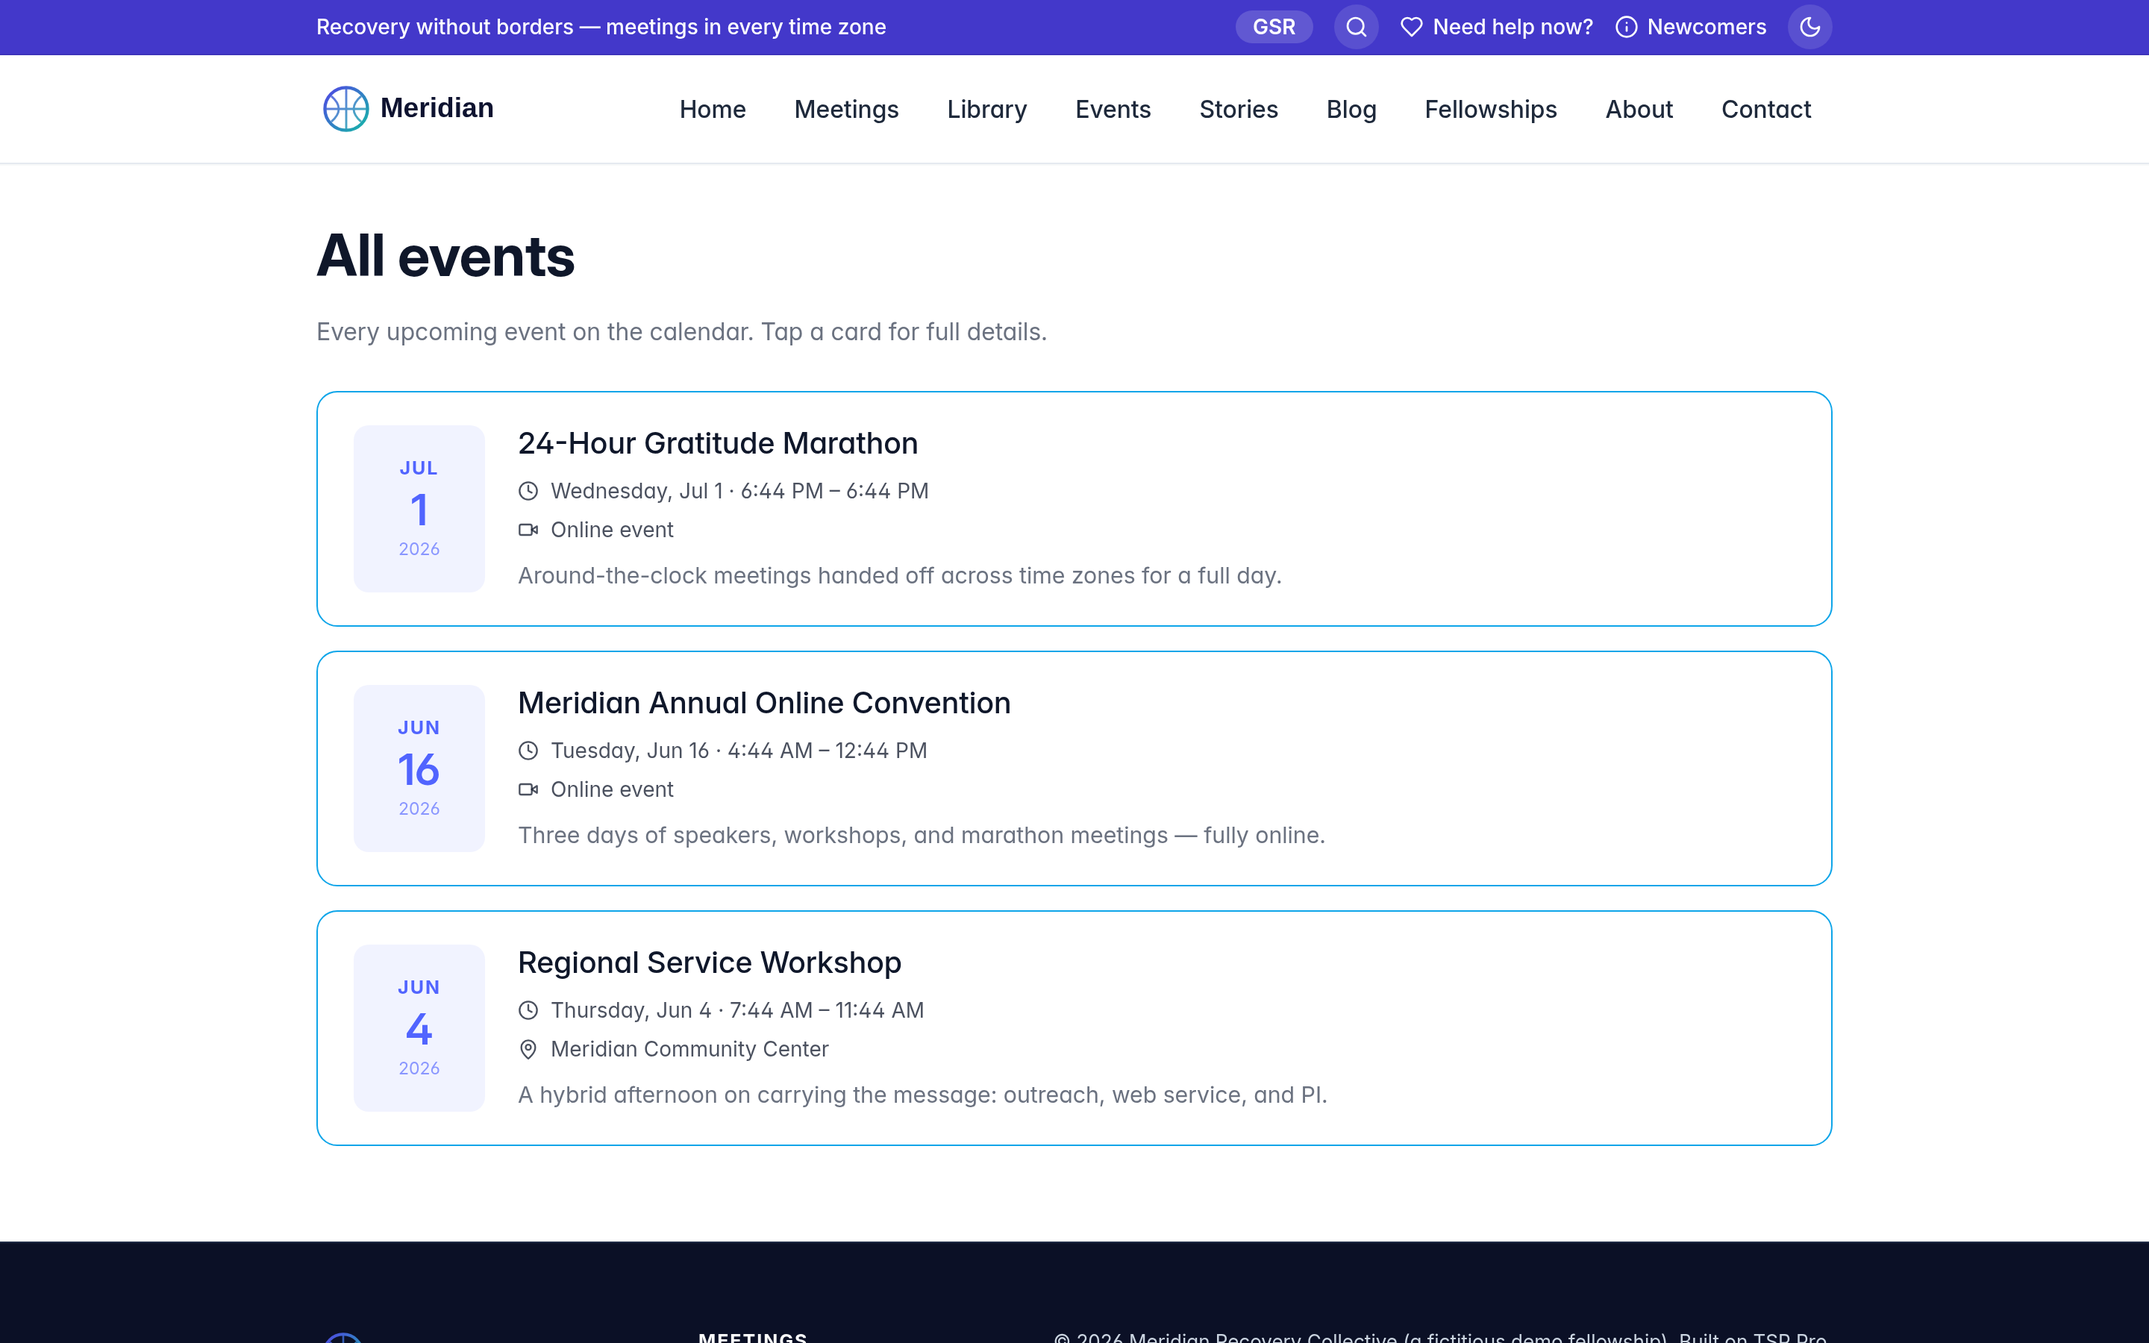
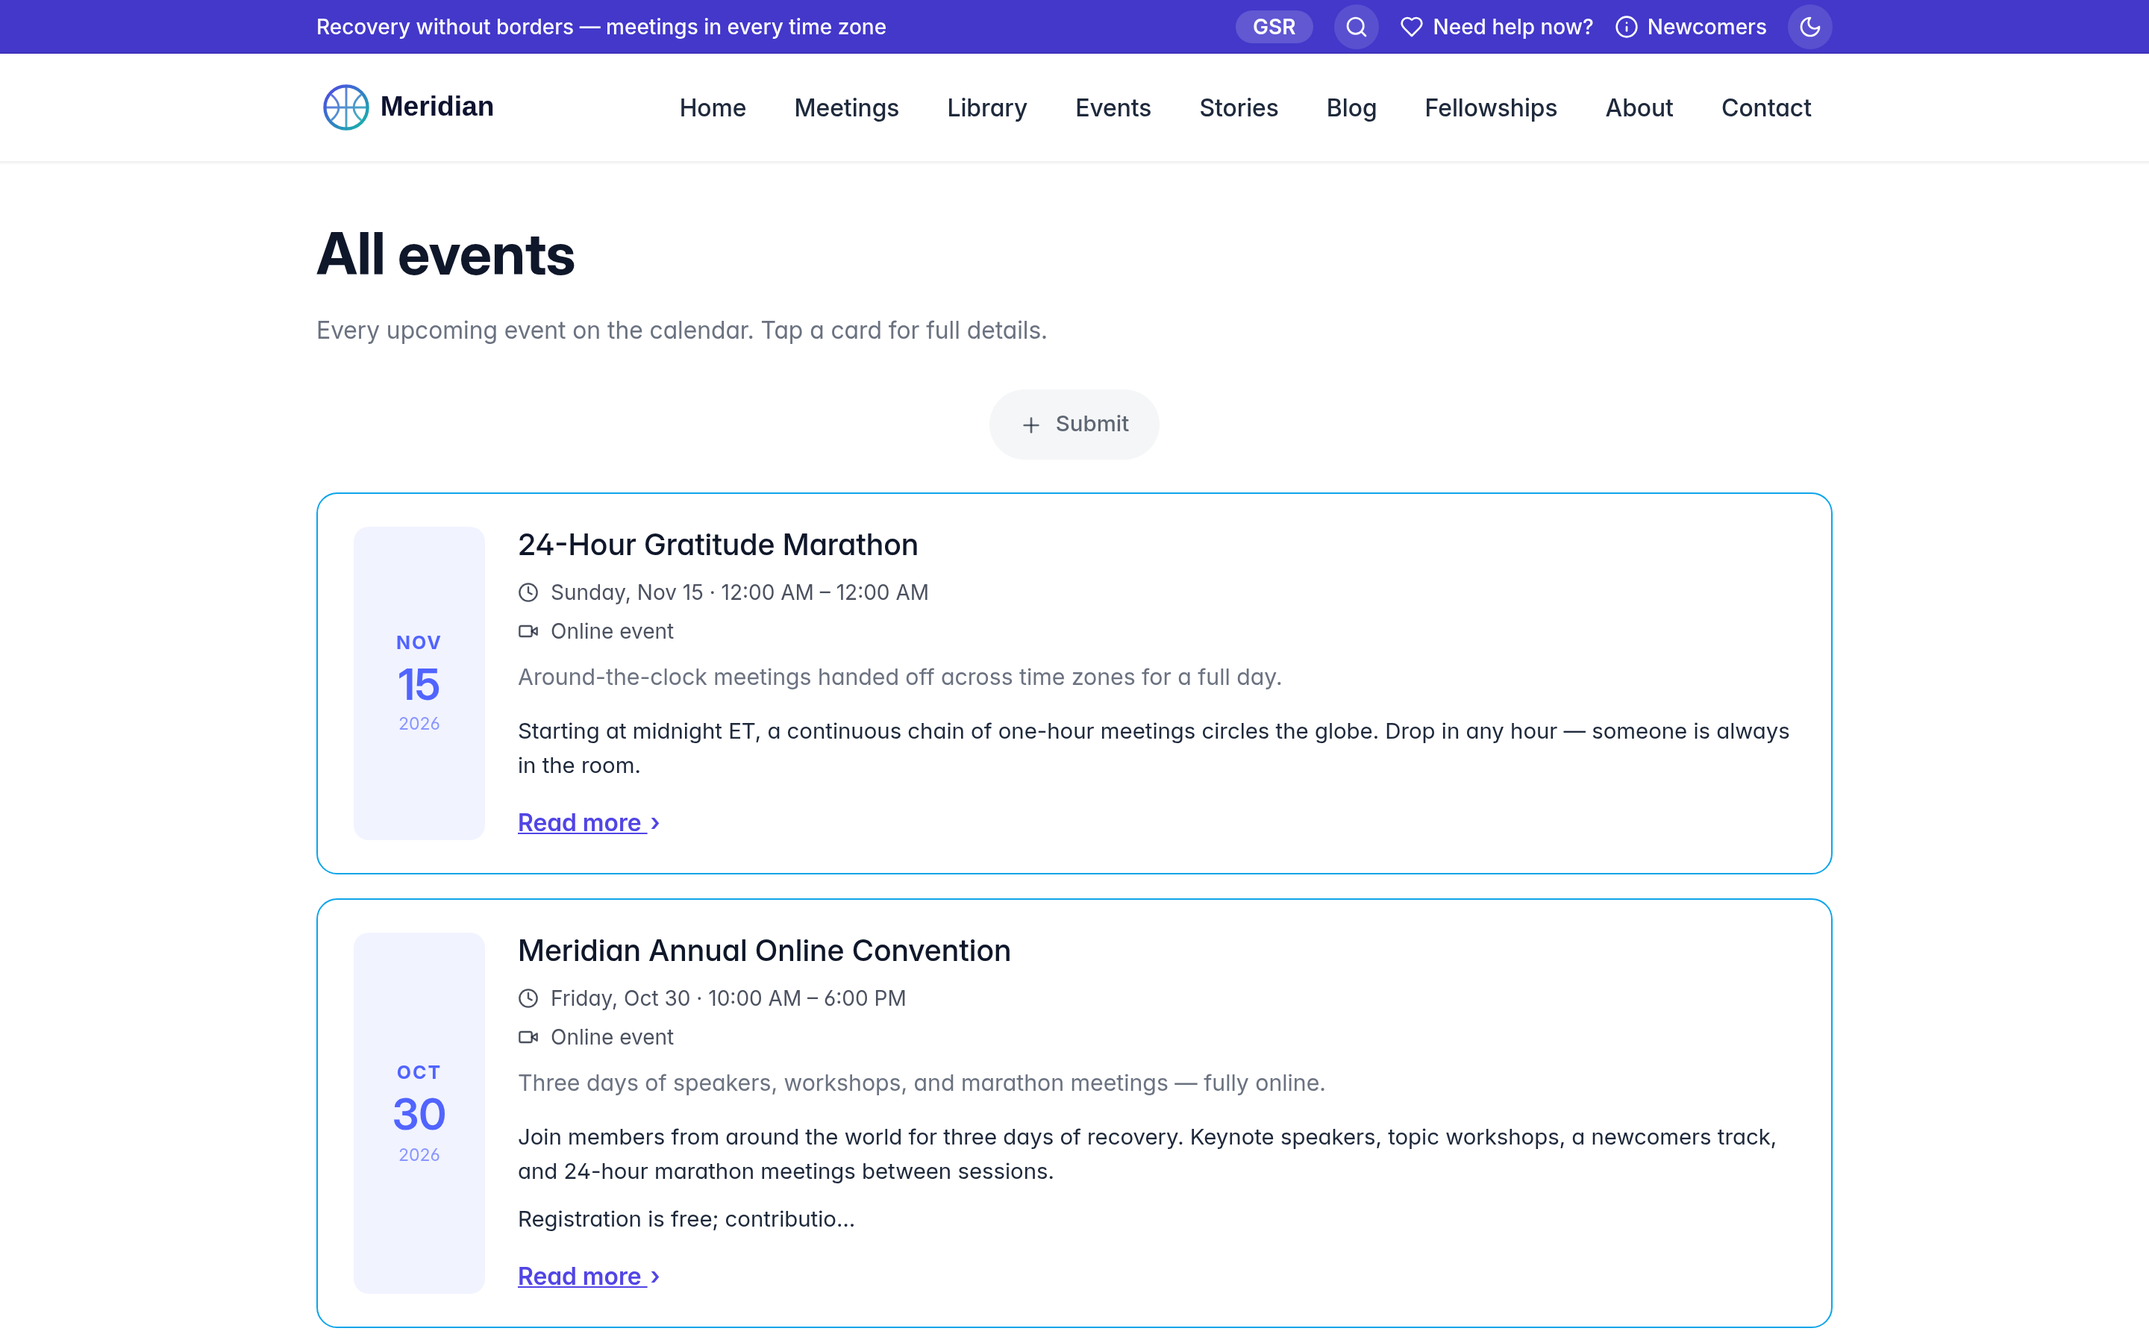
feat(demo): refresh the product page and demo data for 3.0.0
The product page's features and install steps describe 3.0.0, with new screenshots. The seed adds sample files so the File Browser's file view has something to show, and moves seeded events forward on each boot, since events seeded in May had all passed. The demo banner sits beside the admin sidebar instead of under it and stays out of embedded windows.

diff --git a/app/templates/product/landing.html b/app/templates/product/landing.html
@@ -172,6 +172,7 @@
             <li>{{ tick() }}<span>Admin · editor · viewer roles with per-module gating</span></li>
             <li>{{ tick() }}<span>Watchtower: visitor metrics, 404s, access requests, IP controls</span></li>
             <li>{{ tick() }}<span>Daily snapshots, end-to-end-encrypted off-site backups, full-portal export/restore</span></li>
+            <li>{{ tick() }}<span>Every list searchable as you type, with filters, sort, and list or grid views</span></li>
           </ul>
           <p style="margin-top:1.4rem"><a class="pp-btn pp-btn-ghost" href="{{ DEMO_ADMIN }}">Open the admin (admin / admin) →</a></p>
         </div>
@@ -212,13 +213,13 @@
           ('megaphone', 'Events & announcements', 'Post events with locations and Zoom links; announcements auto-archive when they expire.'),
           ('heart', 'Recovery stories', 'First-person stories with author bylines and milestone dates — a moderated, public submission flow included.'),
           ('feather', 'Blog', 'Long-form posts with categories and tags; one table can power many committee blogs.'),
-          ('layout', 'Page builder', 'Drag-and-drop blocks — heroes, cards, galleries, containers — for any page, no code.'),
-          ('palette', 'Design system', 'Themes, design tokens, custom fonts, light/dark mode, mega-menus, and footers you control.'),
-          ('shield', 'Roles & permissions', 'Admin, editor, and viewer roles with fine-grained per-module access gating.'),
+          ('layout', 'Page builder', 'Build any page from blocks (heroes, cards, galleries, containers), with the page structure, block library, and a live preview side by side.'),
+          ('palette', 'Design system', 'A design page with a live preview: themes, colors with light and dark values, fonts, buttons, cards, mega menus, headers, and footers.'),
+          ('shield', 'Roles & access requests', 'Admin, editor, and viewer roles with per-module gating, two-factor sign-in, and a Request Access popup on the public site.'),
           ('activity', 'Watchtower analytics', 'Privacy-first visitor metrics, 404 tracking, access requests, and IP blocking.'),
           ('save', 'Backups & restore', 'Daily snapshots and scheduled off-site backups — end-to-end encrypted to TS Pro Backup, or SFTP/FTP/Dropbox — with one-screen restore.'),
-          ('video', 'Zoom & tech hub', 'A built-in knowledge base of hosting checklists and security best practices.'),
-          ('globe', 'Forms, contact & more', 'Custom forms, contact routing, a fellowships index, trusted-servant mailing list, and printable schedules.')
+          ('video', 'Zoom & tech hub', 'Zoom host accounts on a weekly calendar, plus a training page of hosting checklists with zoomable screenshots.'),
+          ('globe', 'Files, forms & more', "A file browser that shows each file with where it's used, custom forms, contact routing, a trusted-servant email list, and an alert bar for your team.")
         ] %}
         {% for icon, title, body in cards %}
         <article class="pp-card">
@@ -281,9 +282,10 @@ Contact email: you@yourfellowship.org
             </li>
             <li>
               <span class="pp-step-h">Sign in &amp; secure it</span>
-              <p>Open the URL the installer prints, sign in with the seeded admin, and <b>change the password immediately</b> from Settings → Users.</p>
+              <p>Open the URL the installer prints and sign in with the admin password it generated (also saved in <code>/opt/tspro/.env</code>). The first sign-in sets up <b>two-factor authentication</b>.</p>
               <div class="pp-code"><pre><span class="p">→</span> https://portal.yourfellowship.org
-   user: <span class="g">admin</span>   ·   pass: <span class="g">admin</span>   <span class="c"># change this now</span></pre></div>
+   username : <span class="g">admin</span>
+   password : <span class="g">(printed by the installer)</span></pre></div>
             </li>
           </ol>
         </div>
@@ -313,6 +315,7 @@ services:
       - ./data:/data
     environment:
       - TSP_SECRET_KEY=${TSP_SECRET_KEY:?TSP_SECRET_KEY must be set in .env}
+      - TSP_ADMIN_PASSWORD=${TSP_ADMIN_PASSWORD:?TSP_ADMIN_PASSWORD must be set in .env}
     restart: unless-stopped
     <span class="c"># cap logs so they can't fill the disk over time</span>
     logging:
@@ -320,9 +323,11 @@ services:
       options: { max-size: "10m", max-file: "3" }</pre></div>
             </li>
             <li>
-              <span class="pp-step-h">Set a secret key</span>
-              <p>Trusted Servants Pro signs session cookies with this. Generate a random value into a <code>.env</code> file.</p>
-              <div class="pp-code"><pre><span class="g">$</span> echo "TSP_SECRET_KEY=$(openssl rand -hex 32)" &gt; .env</pre></div>
+              <span class="pp-step-h">Set a secret key and admin password</span>
+              <p>The secret key signs session cookies; the password seeds the first admin. It won't start without both, so generate them into a <code>.env</code> file.</p>
+              <div class="pp-code"><pre><span class="g">$</span> echo "TSP_SECRET_KEY=$(openssl rand -hex 32)" &gt; .env
+<span class="g">$</span> echo "TSP_ADMIN_PASSWORD=$(openssl rand -base64 18)" &gt;&gt; .env
+<span class="g">$</span> cat .env   <span class="c"># note the password</span></pre></div>
             </li>
             <li>
               <span class="pp-step-h">Start it</span>
@@ -331,9 +336,9 @@ services:
             </li>
             <li>
               <span class="pp-step-h">Open it</span>
-              <p>Visit the public site and the admin backend, sign in, and change the admin password.</p>
+              <p>Visit the public site and the admin backend, and sign in as <code>admin</code> with the password from <code>.env</code>; it then sets up two-factor authentication.</p>
               <div class="pp-code"><pre><span class="p">→</span> http://localhost:8090         <span class="c"># public site</span>
-<span class="p">→</span> http://localhost:8090/tspro   <span class="c"># admin (admin / admin)</span></pre></div>
+<span class="p">→</span> http://localhost:8090/tspro   <span class="c"># admin backend</span></pre></div>
             </li>
           </ol>
         </div>

diff --git a/app/templates/product/_demo_banner.html b/app/templates/product/_demo_banner.html
@@ -14,6 +14,16 @@
 .tsp-demobar a:hover{background:rgba(255,255,255,.22)}
 .tsp-demobar code{font-family:ui-monospace,SFMono-Regular,Menlo,monospace;background:rgba(0,0,0,.22);padding:1px 5px;border-radius:5px}
 @media(max-width:680px){.tsp-demobar .txt{display:none}}
+/* In the admin the sidebar is fixed over the left of the window: start the
+   banner beside it, and take the banner's height (--demobar-h, set below)
+   out of the views that fill the window (the File Browser's list and a
+   file's view). */
+@media(min-width:901px){body:has(> .layout) .tsp-demobar{margin-left:var(--sidebar-w,248px)}}
+body:has(> .tsp-demobar) > .layout{min-height:calc(100vh - var(--demobar-h,0px))}
+/* Not again inside a window embedded in a page (the file picker, Settings
+   panes): the page around it has the banner. */
+body.embed > .tsp-demobar{display:none}
+body:not(.embed):has(> .tsp-demobar) :is(.fb-pick--page,.fb-file-view){--fb-h:calc(100vh - var(--topbar-h,56px) - 2 * var(--content-px,20px) - var(--demobar-h,0px))}
 </style>
 <div class="tsp-demobar" role="region" aria-label="Demo mode">
   <div class="tsp-demobar-in">
@@ -26,4 +36,12 @@
     <a href="/" title="The TSP Pro product page">About TSP&nbsp;Pro</a>
   </div>
 </div>
+<script>
+(function () {
+  var bar = document.querySelector('.tsp-demobar');
+  function set() { document.documentElement.style.setProperty('--demobar-h', bar.offsetHeight + 'px'); }
+  set();
+  window.addEventListener('resize', set);
+})();
+</script>
 {%- endif %}

diff --git a/app/demo_seed.py b/app/demo_seed.py
@@ -24,6 +24,7 @@ from .models import (
     db, User, SiteSetting, Meeting, MeetingSchedule, MeetingFile, MeetingLibrary,
     Location, Library, LibraryItem, Post, Story, BlogCategory, BlogTag, BlogPost,
     Fellowship, IntergroupOfficer, TrustedServantSubscriber, Page, FrontendNavItem,
+    MediaItem,
 )
 
 FELLOWSHIP_NAME = "Meridian Recovery Collective"
@@ -72,6 +73,139 @@ def _write_logo():
         return stored
     except OSError:
         return None
+
+
+# ── files for the File Browser ──────────────────────────────────────────────
+def _seed_files(admin):
+    """Give the File Browser something to show: a flyer, a photo with camera
+    details, a PDF guide and a CSV, drawn with Pillow (no outside assets). The
+    PDF is the Chairperson Guide's file and the flyer the Regional Service
+    Workshop's image, so a file's view lists where it's used. Idempotent, and
+    run on every boot, so a golden DB seeded before it existed gets the files."""
+    import hashlib
+    import io
+    try:
+        from PIL import Image, ImageDraw, ImageFont
+    except ImportError:
+        return
+    if MediaItem.query.filter(MediaItem.original_filename.like("meridian-%")).count():
+        return
+    upload_dir = current_app.config["UPLOAD_FOLDER"]
+    os.makedirs(upload_dir, exist_ok=True)
+
+    def font(size):
+        return ImageFont.load_default(size=size)
+
+    def rgb(hex_):
+        return tuple(int(hex_[i:i + 2], 16) for i in (1, 3, 5))
+
+    def gradient(w, h, a, b):
+        im = Image.new("RGB", (w, h))
+        dr = ImageDraw.Draw(im)
+        a, b = rgb(a), rgb(b)
+        for y in range(h):
+            t = y / max(1, h - 1)
+            dr.line([(0, y), (w, y)], fill=tuple(round(a[i] + (b[i] - a[i]) * t) for i in range(3)))
+        return im
+
+    def save(name, data, mime, days_ago):
+        stored = f"{uuid.uuid4().hex}_{name}"
+        with open(os.path.join(upload_dir, stored), "wb") as fh:
+            fh.write(data)
+        db.session.add(MediaItem(
+            stored_filename=stored, original_filename=name,
+            content_hash=hashlib.sha256(data).hexdigest(), size_bytes=len(data),
+            mime_type=mime, uploaded_by=admin.id if admin else None,
+            created_at=datetime.utcnow() - timedelta(days=days_ago)))
+        return stored
+
+    def encode(im, fmt, **kw):
+        buf = io.BytesIO()
+        im.save(buf, fmt, **kw)
+        return buf.getvalue()
+
+    # Event flyer.
+    im = gradient(1600, 1000, BRAND, INK)
+    dr = ImageDraw.Draw(im)
+    dr.ellipse([1080, -220, 1820, 520], outline=rgb(ACCENT), width=10)
+    dr.text((110, 150), "REGIONAL SERVICE WORKSHOP", font=font(40), fill=rgb(ACCENT))
+    dr.text((110, 230), "Carrying the message,", font=font(96), fill="white")
+    dr.text((110, 345), "online and in person", font=font(96), fill="white")
+    dr.text((110, 560), "Outreach · Web service · Public information", font=font(44), fill=(205, 210, 255))
+    dr.text((110, 800), "Meridian Community Center · Saturday, 1 to 5 pm", font=font(40), fill="white")
+    flyer = save("meridian-service-workshop-flyer.png", encode(im, "PNG"), "image/png", 6)
+
+    # A photo, with the camera details a phone would record.
+    im = gradient(1800, 1200, "#F6C177", "#2E3A5C")
+    dr = ImageDraw.Draw(im)
+    dr.rectangle([0, 820, 1800, 1200], fill=(36, 52, 44))
+    for i, x in enumerate(range(80, 1800, 260)):
+        dr.ellipse([x, 640 - (i % 3) * 30, x + 220, 900], fill=(46, 92, 66))
+    dr.ellipse([1240, 260, 1460, 480], fill=(255, 226, 160))
+    exif = Image.Exif()
+    exif[0x010F] = "Apple"
+    exif[0x0110] = "iPhone 15"
+    exif[0x0132] = (datetime.utcnow() - timedelta(days=40)).strftime("%Y:%m:%d 18:42:10")
+    save("meridian-summer-picnic.jpg", encode(im, "JPEG", quality=88, exif=exif), "image/jpeg", 38)
+
+    # The Chairperson Guide as a one-page PDF.
+    page = Image.new("RGB", (1240, 1754), "white")
+    dr = ImageDraw.Draw(page)
+    dr.rectangle([0, 0, 1240, 170], fill=rgb(BRAND))
+    dr.text((90, 60), "Meridian Recovery Collective", font=font(44), fill="white")
+    dr.text((90, 250), "Chairperson Guide", font=font(64), fill=rgb(INK))
+    lines = ["Arrive ten minutes early and open the room.",
+             "Welcome newcomers first, by first name only.",
+             "Read the format, keeping to the time for each part.",
+             "Rotate sharing so quieter members get a chance.",
+             "Close on time, and thank the readers and greeters."]
+    for i, line in enumerate(lines):
+        dr.text((90, 420 + i * 90), f"{i + 1}.  {line}", font=font(34), fill=(40, 44, 60))
+    guide = save("meridian-chairperson-guide.pdf", encode(page, "PDF", resolution=150), "application/pdf", 20)
+
+    # A roster with no preview, for the file view's download-only state.
+    roster = ("Position,Name,Term ends\nChair,Jordan M.,2026-12-31\nSecretary,Priya S.,2026-09-30\n"
+              "Treasurer,Chris L.,2027-03-31\nWebservant,Alex R.,2027-06-30\n").encode()
+    save("meridian-service-roster.csv", roster, "text/csv", 12)
+
+    # Where they're used.
+    item = LibraryItem.query.filter_by(title="Chairperson Guide").first()
+    if item and not item.stored_filename:
+        item.stored_filename, item.original_filename = guide, "meridian-chairperson-guide.pdf"
+    workshop = Post.query.filter_by(slug="regional-service-workshop").first()
+    if workshop and not workshop.featured_image_filename:
+        workshop.featured_image_filename = flyer
+    db.session.commit()
+
+
+# ── keep the seeded events upcoming ─────────────────────────────────────────
+_SEEDED_POSTS = ("annual-online-convention", "regional-service-workshop", "gratitude-marathon",
+                 "new-late-night-lifeline", "website-refresh", "call-for-service-outreach")
+
+
+def _refresh_post_dates():
+    """The seed dates its events and announcements from the day it ran, so a
+    demo seeded weeks ago shows no upcoming events. Move them all forward by
+    the time since, keeping their spacing: the newest is published a day ago,
+    as when seeded. Events start and end on the hour. The event lists show
+    the start of a post's body under its title, so a body that opens by
+    repeating the title as a heading loses that heading. Runs on every boot."""
+    posts = Post.query.filter(Post.slug.in_(_SEEDED_POSTS)).all()
+    newest = max((p.published_at for p in posts if p.published_at), default=None)
+    shift = (datetime.utcnow() - timedelta(days=1)) - newest if newest else timedelta(0)
+    for p in posts:
+        if shift >= timedelta(hours=1):
+            for col in ("published_at", "event_starts_at", "event_ends_at", "announcement_auto_archive_at"):
+                if getattr(p, col, None):
+                    setattr(p, col, getattr(p, col) + shift)
+            p.is_archived = False
+        for col in ("event_starts_at", "event_ends_at"):
+            if getattr(p, col, None):
+                setattr(p, col, getattr(p, col).replace(minute=0, second=0, microsecond=0))
+        heading = "# " + (p.title or "")
+        if p._body and p._body.startswith(heading + "\n"):
+            p._body = p._body[len(heading):].lstrip("\n")
+    db.session.commit()
 
 
 # ── users ───────────────────────────────────────────────────────────────────
@@ -848,8 +982,12 @@ def _seed_nav(s):
 
 # ── entry point ──────────────────────────────────────────────────────────────
 def seed_demo_data(app):
-    """Idempotently populate the golden demo dataset. No-op once meetings exist."""
+    """Idempotently populate the golden demo dataset. Once meetings exist it
+    only adds the File Browser's files (to a golden DB seeded before they
+    existed) and moves the seeded events forward so they stay upcoming."""
     if Meeting.query.count() > 0:
+        _seed_files(User.query.filter_by(username="admin").first())
+        _refresh_post_dates()
         return
     app.logger.info("Seeding demo data: %s", FELLOWSHIP_NAME)
     logo = _write_logo()
@@ -867,6 +1005,8 @@ def seed_demo_data(app):
     _seed_pages(s, libraries, news.id if news else 0)
     _seed_nav(s)
     db.session.commit()
+    _seed_files(admin)
+    _refresh_post_dates()
     app.logger.info("Demo data seeded.")
 
 
